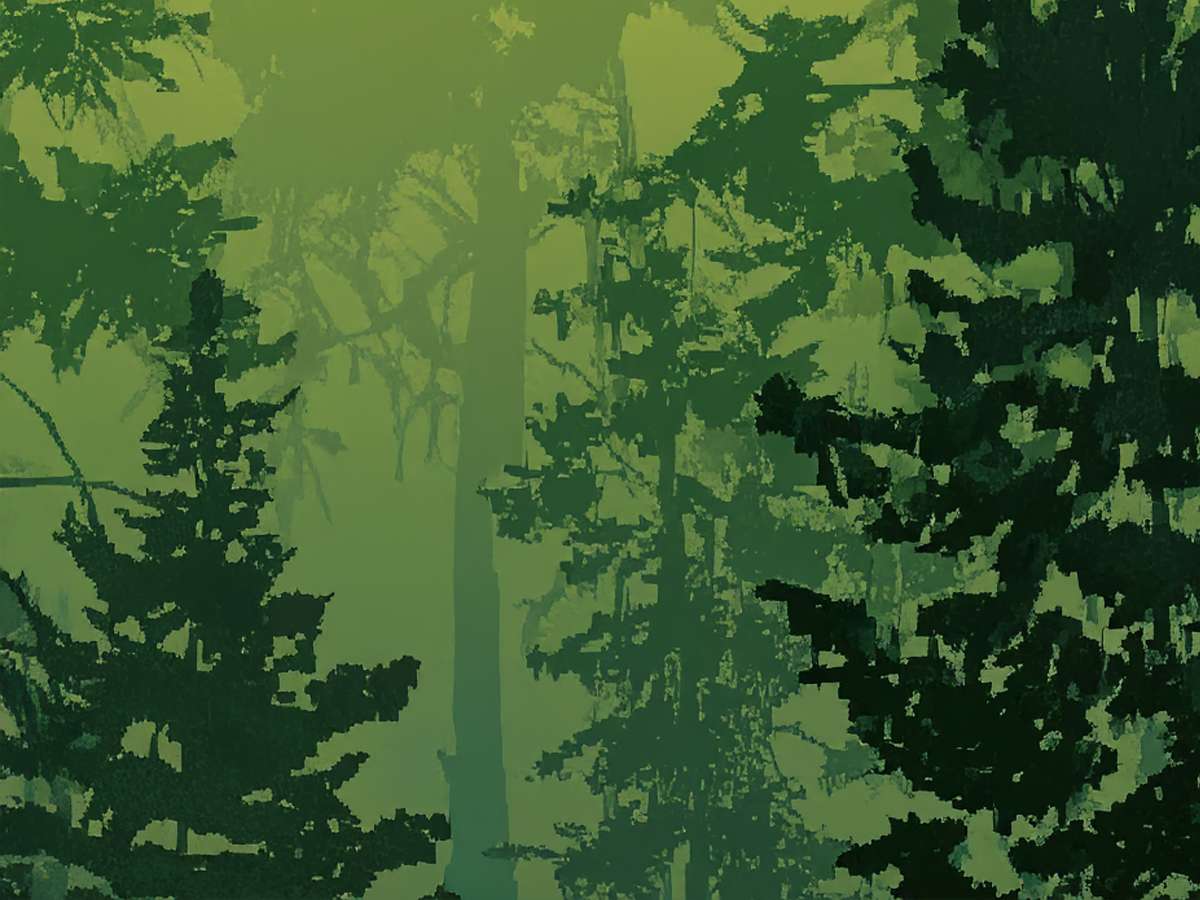
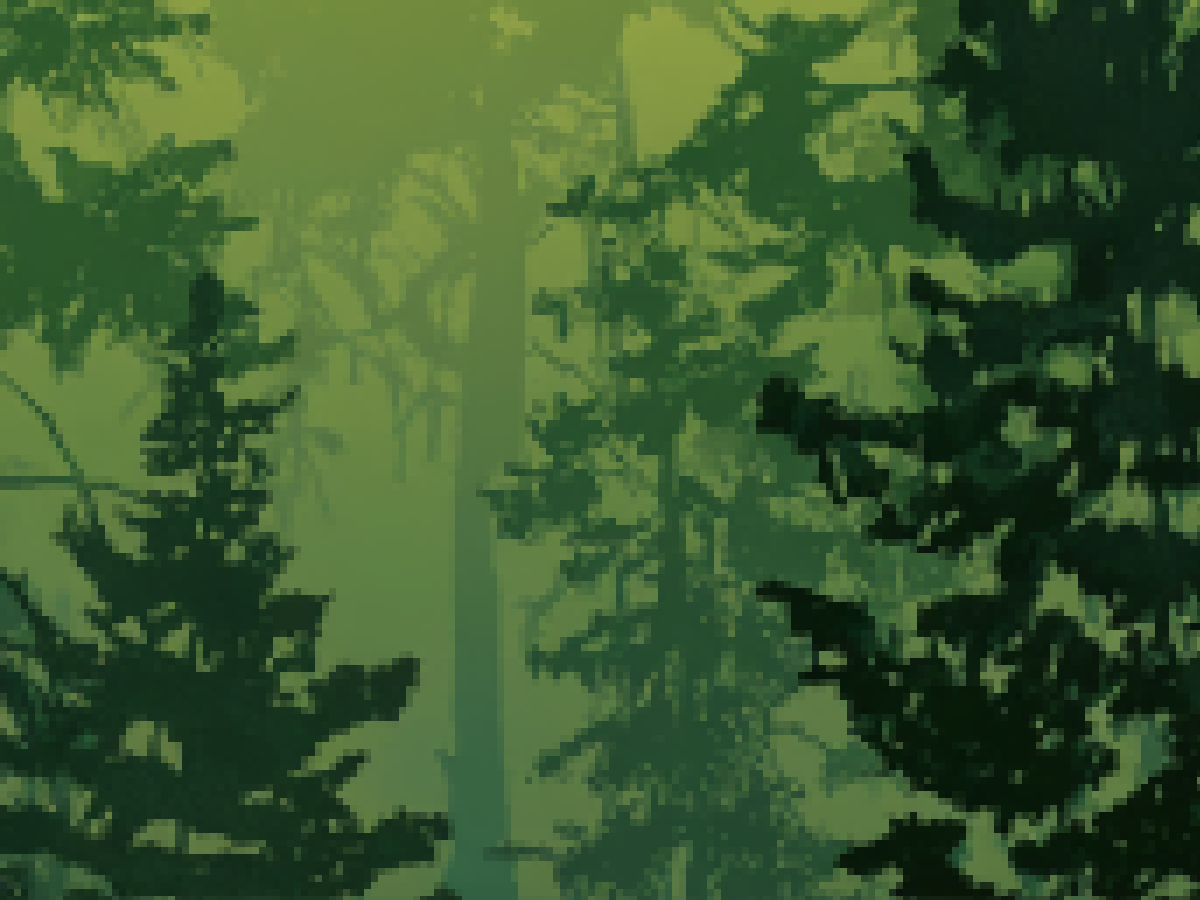
adding posibility to go to another level (screen), updating images

diff --git a/src/main/java/cz/cvut/fel/pjv/talacjos/jump_up/model/CollisionHandler.java b/src/main/java/cz/cvut/fel/pjv/talacjos/jump_up/model/CollisionHandler.java
@@ -1,30 +1,55 @@
 package cz.cvut.fel.pjv.talacjos.jump_up.model;
 
+import cz.cvut.fel.pjv.talacjos.jump_up.Constants;
 import javafx.geometry.Bounds;
 
 import java.util.List;
 
 public class CollisionHandler{
+    private GameState gameState;
+
+    public CollisionHandler(GameState gameState) {
+        this.gameState = gameState;
+    }
 
     // First check and handle vertical movement, then horizontal
-    public void handleCollisions(Player player, List<Platform> platforms, double floorY, double gameWidth) {
+    public void handleCollisions(Player player, List<Platform> platforms, double floorY, int curLevel, int maxLevel) {
         // Reset ground state before checking
         player.setOnGround(false);
 
-        // Check floor collision (highest priority)
-        if (player.getY() + player.getHeight() > floorY) {
+        // Check player on the floor on level 1 (highest priority)
+        if (player.getY() + player.getHeight() > Constants.GAME_HEIGHT && curLevel == 1) {
             player.setY(floorY - player.getHeight());
             player.setVelocityY(0);
             player.setOnGround(true);
             player.setJumping(false);
         }
 
+        // check if the player is colliding with the "celling" and is on the top level
+        if (player.getY() < 0 && curLevel == maxLevel) {
+            player.setY(0);
+            player.setVelocityY(0);
+        }
+
+        // check next level and move player to the next level - DOWN
+        if (player.getY() > Constants.GAME_HEIGHT && curLevel > 1) {
+            changeLevel(player, curLevel - 1, "down");
+        }
+        // check next level and move player to the next level - UP
+        if (player.getY() + player.getHeight() < 0 && curLevel < maxLevel) {
+            changeLevel(player, curLevel + 1, "up");
+/*            gameState.setCurLevel(curLevel + 1);
+            player.setY(Constants.GAME_HEIGHT);
+            System.out.println(player.getY());
+            System.out.println("Next level");*/
+        }
+
         // Handle boundary constraints (edges of screen)
         if (player.getX() < 0) {
             player.setX(0);
             bounceBack(player);
-        } else if (player.getX() + player.getWidth() > gameWidth) {
-            player.setX(gameWidth - player.getWidth());
+        } else if (player.getX() + player.getWidth() > Constants.GAME_WIDTH) {
+            player.setX(Constants.GAME_WIDTH - player.getWidth());
             bounceBack(player);
         }
 
@@ -87,6 +112,23 @@ public class CollisionHandler{
         } else {
             player.setVelocityY(0);
         }
+    }
+
+    private void changeLevel(Player player, int level, String direction) {
+        /*            gameState.setCurLevel(curLevel + 1);
+            player.setY(Constants.GAME_HEIGHT);
+            System.out.println(player.getY());
+            System.out.println("Next level");*/
+        gameState.setCurLevel(level);
+
+        if (direction.equals("down")) {
+            player.setY(0);
+        } else {
+            player.setY(Constants.GAME_HEIGHT - player.getHeight());
+        }
+
+        System.out.println("Next level " + direction);
+
     }
 
 }

diff --git a/src/main/java/cz/cvut/fel/pjv/talacjos/jump_up/model/GameState.java b/src/main/java/cz/cvut/fel/pjv/talacjos/jump_up/model/GameState.java
@@ -8,21 +8,28 @@ import java.util.List;
 
 public class GameState {
     GameController gameController;
-    private final CollisionHandler collisionHandler = new CollisionHandler();
+    private final CollisionHandler collisionHandler = new CollisionHandler(this);
 
-    private final List<Platform> platformList;
+    private List<Platform> platformList;
     private Player player;
     private double floorY = Constants.GAME_HEIGHT;
     private double jumpHoldTime = 0;
+
+    private int curLevel;
+    private int maxLevel;
 
 
     public GameState(GameController gameController) {
         this.gameController = gameController;
         this.platformList = new ArrayList<Platform>();
 
-        //
-        addPlayer(new Player(200, floorY, Constants.PLAYER_WIDTH, Constants.PLAYER_HEIGHT));
+        //add player and platforms
+        addPlayer(new Player(200, 0, Constants.PLAYER_WIDTH, Constants.PLAYER_HEIGHT));
         addPlatforms();
+
+        //set levels data
+        setCurLevel(1);
+        setMaxLevel(7);
     }
 
     public void update(double deltaTime) {
@@ -41,10 +48,10 @@ public class GameState {
         player.setY(newY);
 
         // Handle all collisions
-        collisionHandler.handleCollisions(player, platformList, floorY, Constants.GAME_WIDTH);
+        collisionHandler.handleCollisions(player, platformList, floorY, curLevel, maxLevel);
 
         // Apply gravity
-        player.setVelocityY(player.getVelocityY() + Constants.GRAVITY * deltaTime);
+        player.setVelocityY(Math.min( Constants.TERMINAL_VELOCITY, player.getVelocityY() + Constants.GRAVITY * deltaTime));
 
         // Control horizontal velocity when on ground -X
         playerRunUpdate();
@@ -134,11 +141,14 @@ public class GameState {
 
     //platform control
     private void addPlatforms() {
-        addSinglePlatform(100, 100, 280, 150, PlatformTypes.DIRT);
-        addSinglePlatform(700, 200, 100, 230, "dirt");
-        addSinglePlatform(300, 350, 300, 100, "dirt");
-        addSinglePlatform(700, 600, 100, 50, "dirt");
-        addSinglePlatform(400, 800, 100, 50, "dirt");
+        platformList = new ArrayList<Platform>();
+//        addSinglePlatform(0, 400, 300, 400, PlatformTypes.DIRT);
+        addSinglePlatform(800, 200, 500, 200, PlatformTypes.STONE);
+        addSinglePlatform(500, 100, 500, 100, PlatformTypes.STONE);
+//        addSinglePlatform(300, 300, 100, 100, PlatformTypes.STONE);
+        addSinglePlatform(700, 600, 100, 50, PlatformTypes.DIRT);
+        addSinglePlatform(500, 650, 100, 50, PlatformTypes.DIRT);
+        addSinglePlatform(200, 700, 100, 50, PlatformTypes.DIRT);
 
         System.out.println(platformList);
     }
@@ -159,5 +169,22 @@ public class GameState {
 
     public void setFloorY(double floorY) {
         this.floorY = floorY;
+    }
+
+    //level control
+    public void setCurLevel(int curLevel) {
+        this.curLevel = curLevel;
+    }
+
+    public void setMaxLevel(int maxLevel) {
+        this.maxLevel = maxLevel;
+    }
+
+    public int getCurLevel() {
+        return curLevel;
+    }
+
+    public int getMaxLevel() {
+        return maxLevel;
     }
 }

diff --git a/src/main/java/cz/cvut/fel/pjv/talacjos/jump_up/model/Platform.java b/src/main/java/cz/cvut/fel/pjv/talacjos/jump_up/model/Platform.java
@@ -4,37 +4,37 @@ import javafx.scene.image.Image;
 import javafx.scene.paint.Color;
 
 public class Platform extends Entity{
-    private String type;
+    private PlatformTypes type;
     private Image image;
 
-    public Platform(double x, double y, double width, double height, String type) {
+    public Platform(double x, double y, double width, double height, PlatformTypes type) {
         super(x, y, width, height);
-        this.type = PlatformTypes.valueOf(type).getType();
-        loadImage(type);
+        this.type = type;
+        loadImage(this.type.getType());
     }
 
     //for no type specified
     public Platform(double x, double y, double width, double height) {
-        this(x, y, width, height, "dirt");
+        this(x, y, width, height, PlatformTypes.DIRT);
     }
 
-    public void setType(String type) {
-        this.type = PlatformTypes.valueOf(type).getType();
-        loadImage(type);
+    public void setType(PlatformTypes type) {
+        this.type = type;
+        loadImage(this.type.getType());
     }
 
-    public String getType() {
+    public PlatformTypes getType() {
         return type;
     }
 
     public Color getBorderColor() {
-        return  PlatformTypes.valueOf(type).getColor();
+        return  type.getColor();
     }
 
     private void loadImage(String type) {
         //get random image for the specified type
         int randomImg = (int) (Math.random() * 3) + 1;
-        String imageLink = getClass().getResource("/images/platform/" + type + randomImg + ".png").toExternalForm();
+        String imageLink = getClass().getResource("/images/platform/" + type + "/" + type  + randomImg + ".png").toExternalForm();
         image = new Image(imageLink);
     }
 

diff --git a/src/main/java/cz/cvut/fel/pjv/talacjos/jump_up/view/GameView.java b/src/main/java/cz/cvut/fel/pjv/talacjos/jump_up/view/GameView.java
@@ -54,16 +54,17 @@ public class GameView {
         scene.setOnKeyPressed(gameController::handleKeyPress);
         scene.setOnKeyReleased(gameController::handleKeyRelease);
 
-        loadBackgroundImage();
     }
 
     //render the game updates every game loop !!!
     public void render() {
+
         //render game state - later
         GraphicsContext gc = canvas.getGraphicsContext2D();
         //clear the previous frame
         gc.clearRect(0, 0, Constants.GAME_WIDTH, Constants.GAME_HEIGHT);
 
+        loadBackgroundImage();
         // Render background image
         gc.drawImage(backgroundImage, 0, 0, Constants.GAME_WIDTH, Constants.GAME_HEIGHT);
 
@@ -135,8 +136,10 @@ public class GameView {
 
 
     private void loadBackgroundImage() {
-        int randomImg = (int) (Math.random() * 7) + 1;
-        backgroundImage = new Image(getClass().getResource("/images/background/background" + randomImg + ".png").toExternalForm());
+//        int randomImg = (int) (Math.random() * 7) + 1;
+        int imgNumber = gameState.getCurLevel();
+        backgroundImage = new Image(getClass().getResource("/images/background/background" + imgNumber + ".png").toExternalForm());
+//        backgroundImage = new Image(getClass().getResource("/images/background/background1" + ".png").toExternalForm());
     }
 
     public Scene getScene() {

diff --git a/src/main/java/cz/cvut/fel/pjv/talacjos/jump_up/Constants.java b/src/main/java/cz/cvut/fel/pjv/talacjos/jump_up/Constants.java
@@ -10,6 +10,7 @@ public class Constants {
     public static final double MAX_JUMP_WAIT = 0.5;
     public static final double MIN_JUMP_COEFFICIENT = 0.1;
     public static final double JUMP_LENGTH_COEFFICIENT = 1.4; //how jump is longer compared to run
+    public static final double TERMINAL_VELOCITY = 2000;
 
     //player stats
     public static final double PLAYER_WIDTH = 90;

diff --git a/src/main/java/cz/cvut/fel/pjv/talacjos/jump_up/model/Player.java b/src/main/java/cz/cvut/fel/pjv/talacjos/jump_up/model/Player.java
@@ -12,7 +12,7 @@ public class Player extends Entity{
     private boolean isSquatting = false;
     private int jumpDirection = 0;
 
-    //phycics stats
+    //phycics stats - not a constant because it can be changed by powerups
     private double jumpPower = 1500;
     private double moveSpeed = 300;
 
